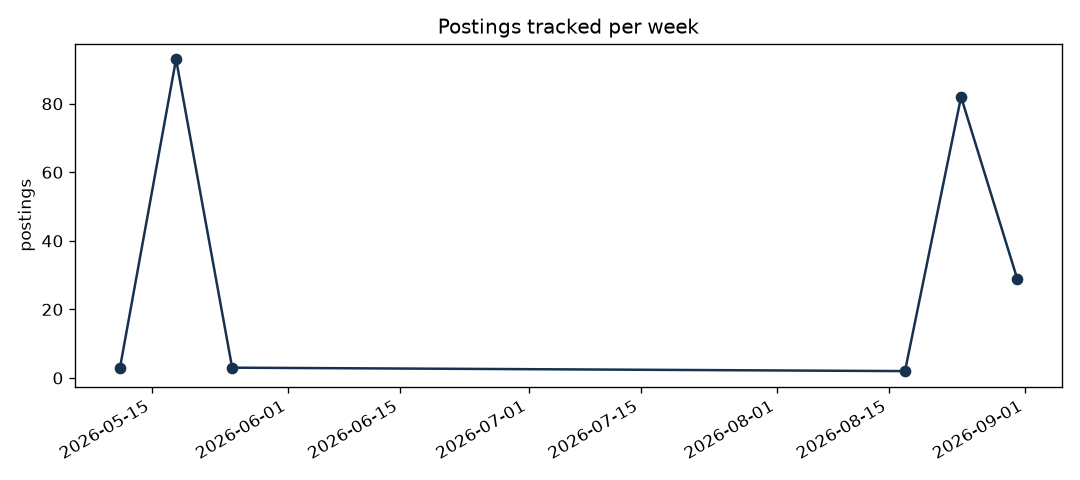
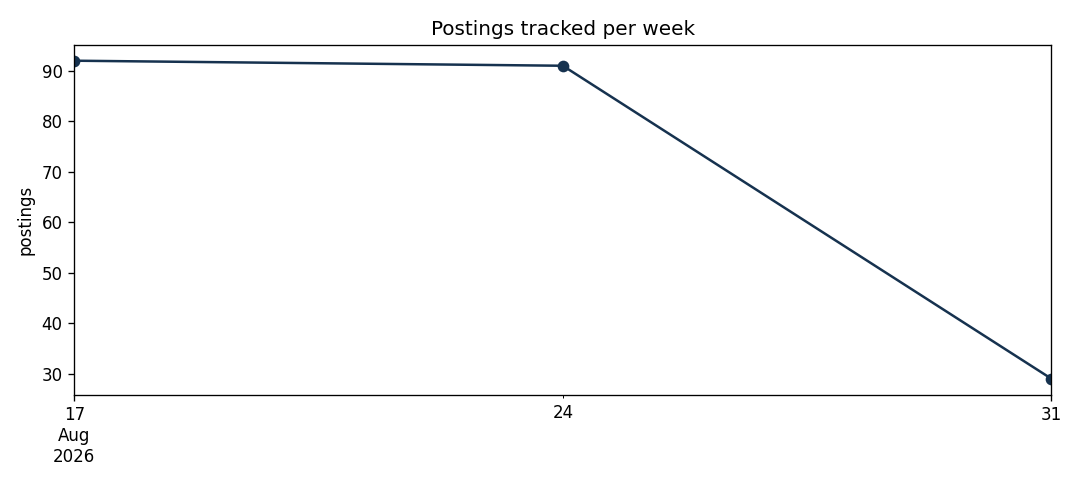
Correct dates on the initial batch of postings

diff --git a/README.md b/README.md
@@ -13,7 +13,7 @@ reporting end to end.
 ## Dashboard
 
 <!-- dashboard:start -->
-*Last updated: 2026-09-02 16:59 UTC*
+*Last updated: 2026-09-02 21:19 UTC*
 
 | | |
 |---|---|
